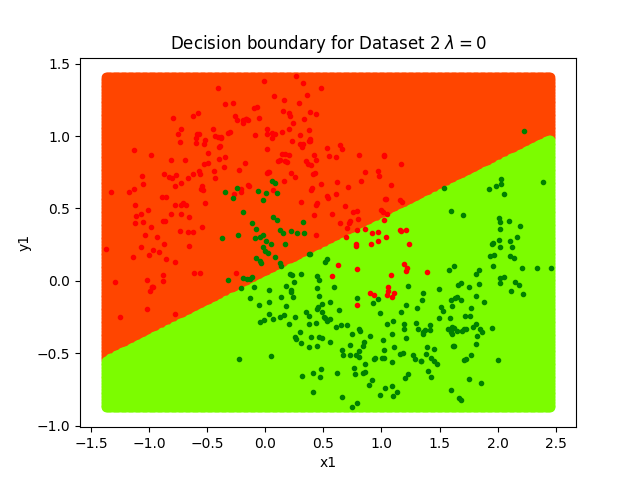
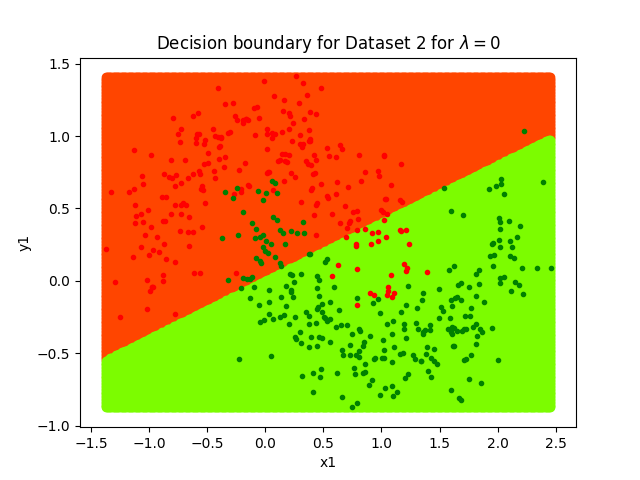
added plots for feature map case

Changed region(s): [[0.25, 0.0625, 0.7812, 0.125]]

diff --git a/PA2/pa1_2fea.py b/PA2/pa1_2fea.py
@@ -78,9 +78,9 @@ y_val = data[train_size:train_size+val_size,-1].reshape(-1,1)
 X_test = data[train_size+val_size:train_size+val_size+test_size,:2]
 y_test = data[train_size+val_size:train_size+val_size+test_size,-1].reshape(-1,1)
 
-
-
-
+# compute mean and std of train data
+mini = np.min(X_train, axis=0)
+maxi = np.max(X_train, axis=0)
 
 print("Logistic Regression")
 print("Size of train, validation and test sets -",X_train.shape,X_val.shape,X_test.shape)
@@ -91,16 +91,16 @@ iterations = [100,1000,10000]
 
 # hyperparameters 1
 if standard : 
-    wt_inits = [2] # 0-zero weights, 1-non-zero constant weights, 2-random weights
-    lrs = [10**-5]
+    wt_init = 2 # 0-zero weights, 1-non-zero constant weights, 2-random weights
+    lr = 10**-5
     iteration = 50000
     lamdas = [0,100,0.001,0.01,0.1]
     degrees = [2,4,5,6]
     weight_init = ["Zero", "Constant", "Random uniform"]
     word = ""
 else :
-    wt_inits = [2] # 0-zero weights, 1-non-zero constant weights, 2-random weights
-    lrs = [10**-5]
+    wt_init = 2 # 0-zero weights, 1-non-zero constant weights, 2-random weights
+    lr = 10**-5
     iteration = 50000
     lamdas = [0,100,0.001,0.01,0.1]
     degrees = [2,4,5,6]
@@ -125,10 +125,7 @@ figs = 221
 
 results = []
 
-for degree in degrees :
-    lr = lrs[0]
-    wt_init = wt_inits[0]
-    
+for degree in degrees :   
     X_train = data[:train_size,:2]
     X_val = data[train_size:train_size+val_size,:2]
     X_test = data[train_size+val_size:train_size+val_size+test_size,:2]
@@ -188,9 +185,14 @@ print("Best model has validation accuracy {:.2f}".format(np.max(np.array(val_acc
 print("Configurations are lamda, degree :",best_model[0],best_model[1])
 
 lamda = best_model[0]
+# lamda = 0.01
 degree = best_model[1]
+# degree = 4
 lamdas = [0,lamda,100]
 
+X_train = data[:train_size,:2]
+X_val = data[train_size:train_size+val_size,:2]
+X_test = data[train_size+val_size:train_size+val_size+test_size,:2]
 # polynomial feature map
 poly = pf(degree)
 X_train = poly.fit_transform(X_train)
@@ -201,10 +203,10 @@ size = X_train.shape[1]
 
 results = []
 count = 0
-# Saving confusion matrix on test, accuracy on train and test data for best model
-w = get_wt_init(wt_init,size)
 
 for lamda in lamdas :
+    # Saving confusion matrix on test, accuracy on train and test data for best model
+    w = get_wt_init(wt_init,size)
     for i in range(iteration) :
         # Compute prediction based on current weight
         y_train_pred = get_sigmoid(np.matmul(X_train,w))
@@ -220,10 +222,10 @@ for lamda in lamdas :
     pred = get_sigmoid(np.matmul(X_test,w))
     acc = get_accuracy(get_class(pred),y_test)
     results.append(acc)
-    getConfusion(y_test, pred, "logreg/feature/"+word+"/ds2cfmatrix"+str(count),"Dataset 2 "+r"$\lambda=$"+str(lamda))
+    getConfusion(y_test, pred, "logreg/feature/"+word+"/ds2cfmatrix"+str(count)+str(degree),"Dataset 2 for "+r"$\lambda=$"+str(lamda)+",degree="+str(degree))
     np.savetxt("results/logreg/feature/"+word+"/ds2traintest.txt",results,fmt="%.2f")
     count+=1
-
+    print("Count ",count)
     boundary_plot = 1
 
     if boundary_plot :
@@ -243,14 +245,14 @@ for lamda in lamdas :
         class3x,class3y = [],[]
 
         X_data = np.transpose(xy)
-        X_data = poly.fit_transform(X_data)
+        X_data_plot = poly.fit_transform(X_data)
 
-        pred = np.squeeze(get_class(get_sigmoid(np.matmul(X_data,w))))
+        pred = np.squeeze(get_class(get_sigmoid(np.matmul(X_data_plot,w))))
         plt.scatter(X_data[pred==0,0], X_data[pred==0,1], color='orangered')
         plt.scatter(X_data[pred==1,0], X_data[pred==1,1], color='lawngreen')
         
         plt.xlabel("x1")
         plt.ylabel("y1")
-        plt.title("Decision boundary for Dataset 2 "+r"$\lambda=$"+str(lamda))
+        plt.title("Decision boundary for Dataset 2 for "+r"$\lambda=$"+str(lamda)+",degree="+str(degree))
 
-        plt.savefig("results/logreg/feature/"+word+"/ds2boundary"+str(count-1))
+        plt.savefig("results/logreg/feature/"+word+"/ds2boundary"+str(count-1)+str(degree))

diff --git a/PA2/pa1_2reg.py b/PA2/pa1_2reg.py
@@ -203,7 +203,7 @@ for lamda in lamdas :
     pred = get_sigmoid(np.matmul(X_test,w))
     acc = get_accuracy(get_class(pred),y_test)
     results.append(acc)
-    getConfusion(y_test, pred, "logreg/regularisation/"+word+"/ds2cfmatrix"+str(count),"Dataset 2 "+r"$\lambda=$"+str(lamda))
+    getConfusion(y_test, pred, "logreg/regularisation/"+word+"/ds2cfmatrix"+str(count),"Dataset 2 for "+r"$\lambda=$"+str(lamda))
     np.savetxt("results/logreg/regularisation/"+word+"/ds2traintest.txt",results,fmt="%.2f")
     count+=1
 
@@ -233,6 +233,6 @@ for lamda in lamdas :
         
         plt.xlabel("x1")
         plt.ylabel("y1")
-        plt.title("Decision boundary for Dataset 2 "+r"$\lambda=$"+str(lamda))
+        plt.title("Decision boundary for Dataset 2 for "+r"$\lambda=$"+str(lamda))
 
         plt.savefig("results/logreg/regularisation/"+word+"/ds2boundary"+str(count-1))
